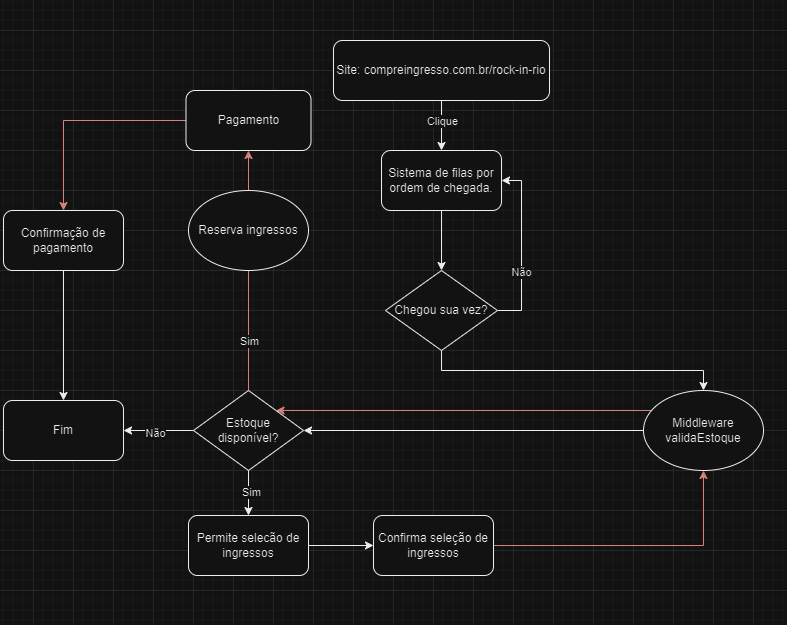
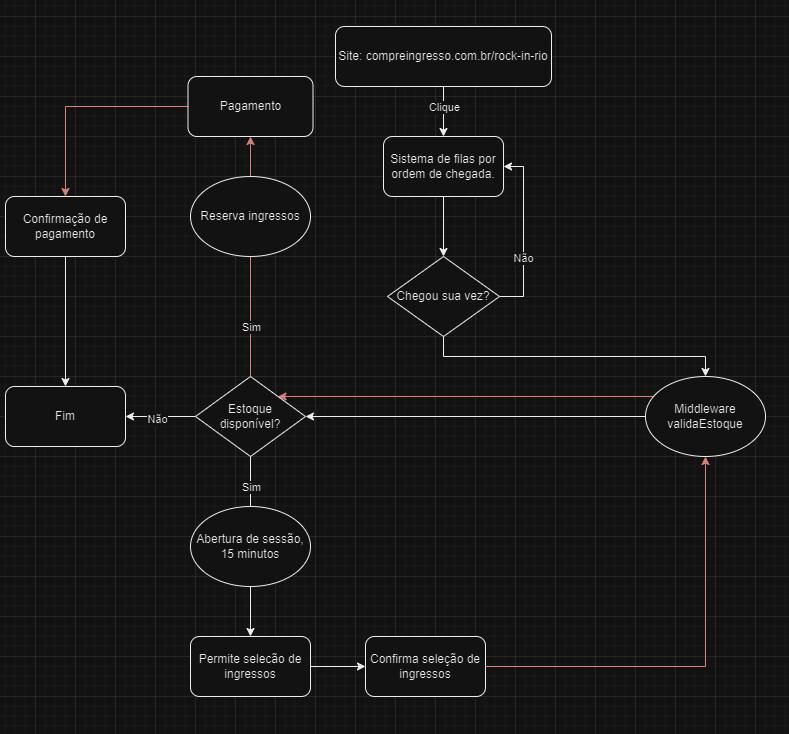
Add files via upload

diff --git a/README.md b/README.md
@@ -1,0 +1,27 @@
+
+# Projeto Ingresso RockinRio
+
+A imagem do projeto no repositório representa o fluxo da aplicação, ou seja, como ela deve funcionar em produção. Entretanto, neste README, vou explicar alguns detalhes técnicos que podem ser implementados para a melhor experiência do usuário. 
+
+
+
+## Sistema de filas
+
+É importante ter um sistema de fila que controla a entrada no portal para seleção de ingressos, que respeite a ordem de chegada de cada pessoa no site. O sistema, além de diminuir a ansiedade do usuário, apresentando as informações de quando será a vez dele, pode também diminuir a quantidade de atualizações na página, evitando qualquer tipo de sobrecarga no servidor. Vale ressaltar que o sistema de filas deve se manter inalterável mediante atualizações ou queda da conexão. Ou seja, a pessoa que pegou um lugar na fila deve manter esse lugar até que a mesma acesse o portal. Essa tela deve ser atualizada automaticamente de tempos em tempos com a situação da fila.
+
+
+## Middeware validaEstoque
+
+O middleware validaEstoque deve ser chamado em 2 pontos: Ao acessar a primeira vez o portal e ao selecionar e confirmar os ingressos, para direcionar para a tela de pagamento. Dessa forma, conseguimos controlar o recebimento dos ingressos mediante a disponibilidade. Podemos também implementar uma terceira chamada, na tela de filas, para apresentar aos usuários se ainda existem ou não ingressos disponíveis. 
+
+## Sessão
+
+Uma vez que chega a vez do usuário e existam ingressos, deve-se abrir uma seção para o usuário com tempo limite de 15 minutos. Esse tempo garante que a pessoa não terá o ingresso reservado por um longo tempo, dando a possibilidade de retornarem ingressos para comercialização.
+
+## Reserva de ingressos
+
+Uma vez selecionados, confirmados e validados, os ingressos devem ser reservados para aquela sessão e não devem mais contar em estoque. Os ingressos só voltarão a ficar disponívels em caso de cancelamento do pagamento ou de expiração do tempo limite da sessão.
+
+## Pagamento e confirmação
+
+Com o pagamento confirmado, os ingressos serão atribuidos ao usuário logado e não estarão mais disponiveis para comercialização em nenhuma hipótese. Neste ponto, podemos avaliar também a implementação de um load balancer, para evitar que usuários sofram com gargalos decorrentes à sobrecarga nos servidores de pagamento. 
